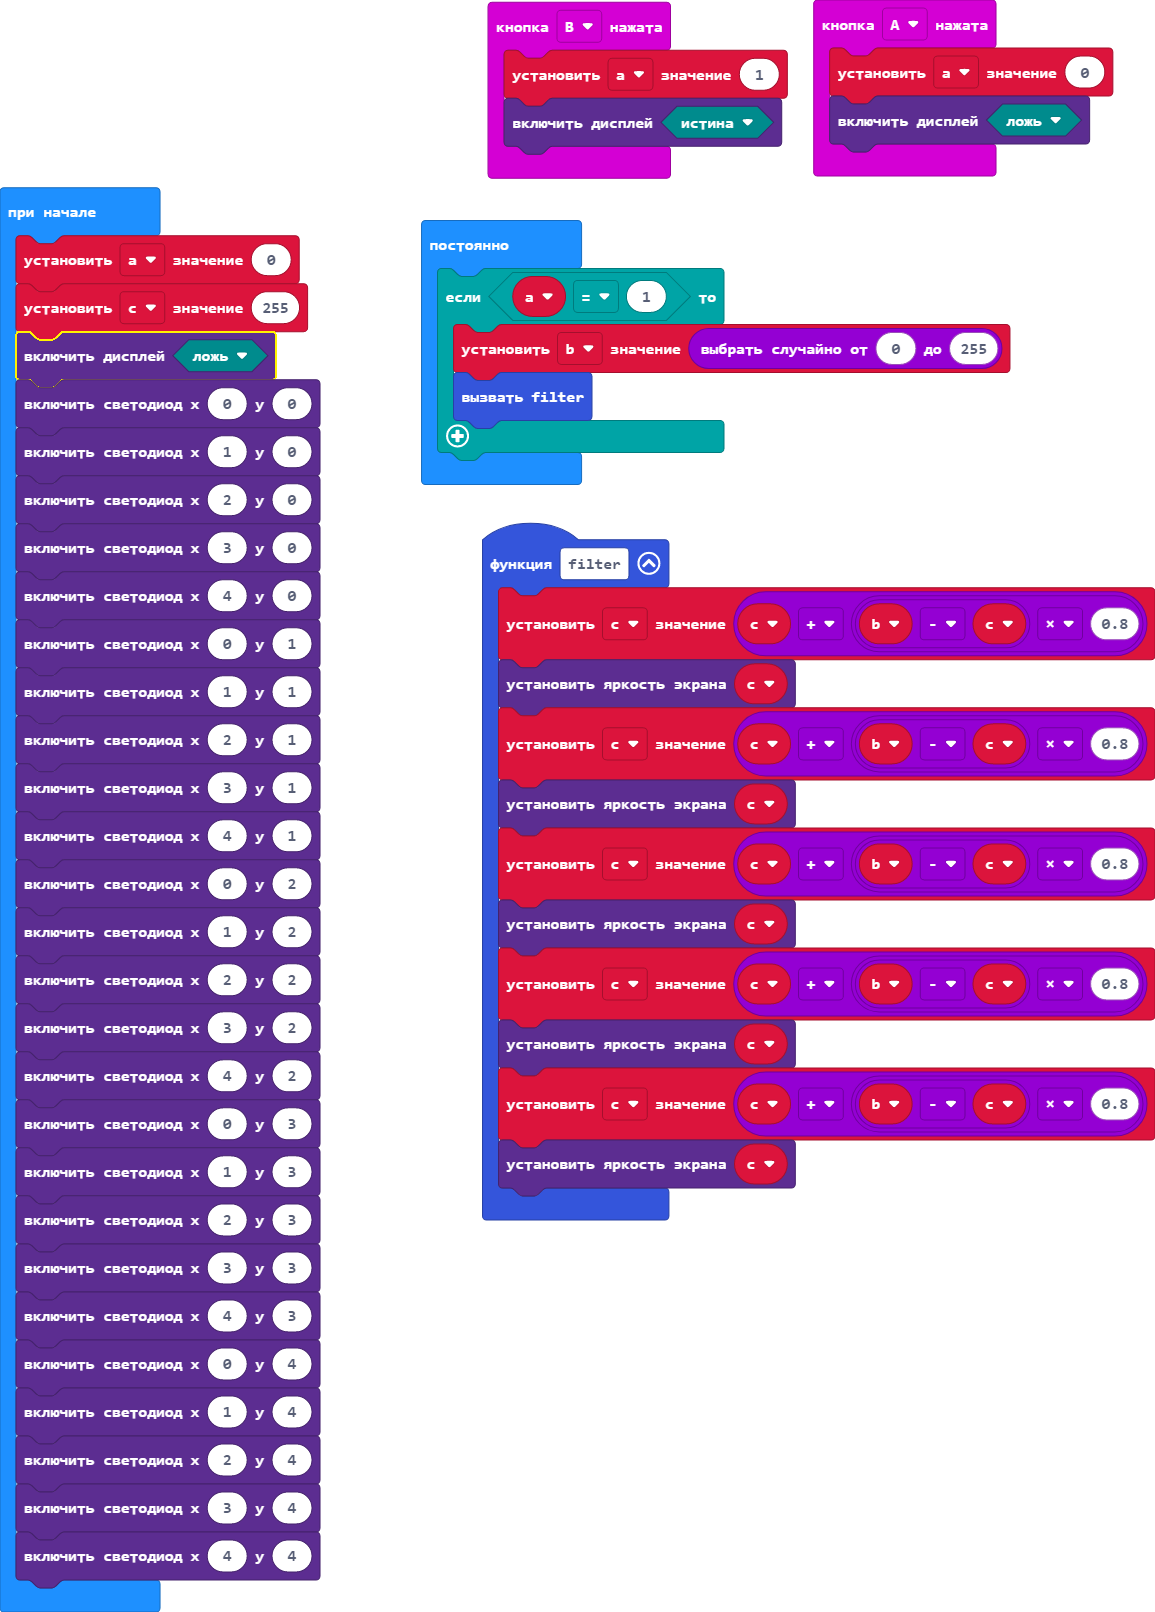
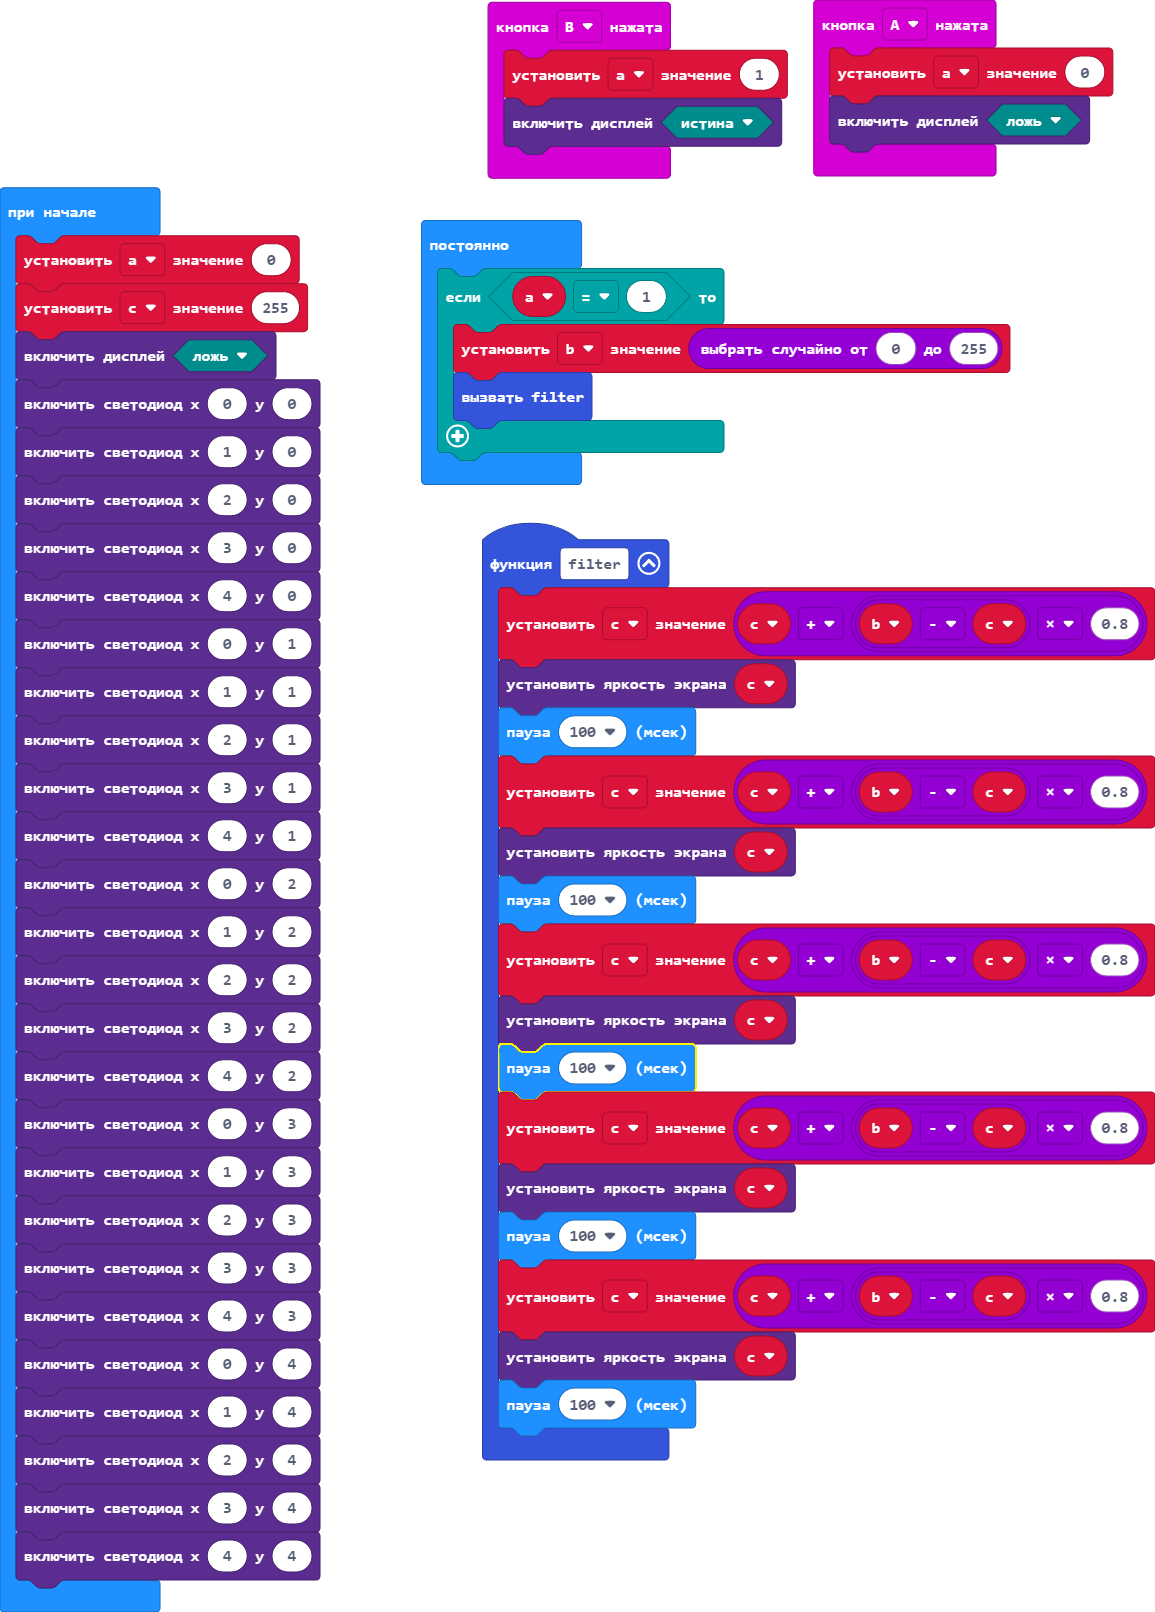
100

Changed region(s): [[0.4052, 0.4342, 1.0, 0.9305]]

diff --git a/main.ts b/main.ts
@@ -5,14 +5,19 @@ input.onButtonPressed(Button.A, function () {
 function filter () {
     c = c + (b - c) * 0.8
     led.setBrightness(c)
+    basic.pause(100)
     c = c + (b - c) * 0.8
     led.setBrightness(c)
+    basic.pause(100)
     c = c + (b - c) * 0.8
     led.setBrightness(c)
+    basic.pause(100)
     c = c + (b - c) * 0.8
     led.setBrightness(c)
+    basic.pause(100)
     c = c + (b - c) * 0.8
     led.setBrightness(c)
+    basic.pause(100)
 }
 input.onButtonPressed(Button.B, function () {
     a = 1
